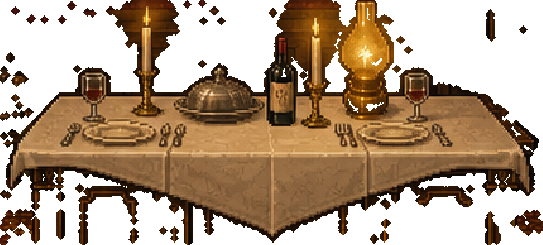
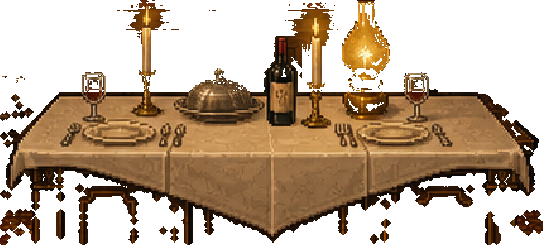
The dinner's cloth to the floor; the lit wall out of the table prop
Tyler: "Maybe you need the tablecloth to come all the way down and it can
hide his legs completely? And the other guy's shoulder is partially
missing behind the candle." tools/art/room11-dinner-drape.py: the table
prop loses the plate's lit wall around its candles and lamp, and a second
prop, dinner_drape, hangs the cloth to the floor in front of the chair.
Lesson: tests/lessons.test.ts fails when a prop paints the plate over a
figure behind it (2864 pixels on the old prop).

Claude-Session: https://claude.ai/code/session_01FXbCurjq3gWmZKUYv89gwi

diff --git a/tests/lessons.test.ts b/tests/lessons.test.ts
@@ -350,3 +350,53 @@ test('a figure with barks and no tree says them where the player stands to talk 
   }
   assert.deepEqual(misses, []);
 });
+
+/* ---- A prop in front of a figure paints only its objects over him ---------- */
+
+// Errata 194 (Tyler, of the dinner: "the other guy's shoulder is partially missing behind the candle"). A prop
+// cut from a plate keeps the plate's own pixels around its objects -- the wall lit by the candles -- and drawn
+// in front of the man behind it, that wall cut his shoulders away. Where a prop overlaps a figure drawn behind
+// it, its pixels must be its objects: no more than a handful may be the plate itself (within 75, and dark).
+test('no prop paints the plate over a figure behind it', () => {
+  const manifest = read('content/manifest.json') as { rooms: string[]; ambient: string[] };
+  const ambient = manifest.ambient.map((path) => read(path)) as { id: string; room: string; x: number; y: number;
+    sprite?: { sheet: string; frames: number[][]; figureHeight?: number }; spriteWhen?: { sprite: { sheet?: string; frames?: number[][] } }[] }[];
+  const misses: string[] = [];
+  for (const path of manifest.rooms) {
+    const room = read(path) as { id: string; background: string; props?: { id: string; sheet: string; x: number; y: number; frame: number[] }[] };
+    if (!room.props?.length || !existsSync(resolve(ROOT, room.background))) continue;
+    const plate = readPng(readFileSync(resolve(ROOT, room.background)));
+    for (const prop of room.props) {
+      const img = readPng(readFileSync(resolve(ROOT, prop.sheet)));
+      const [fx, fy, fw, fh] = prop.frame as [number, number, number, number];
+      const px0 = Math.round(prop.x - fw / 2); const py0 = prop.y - fh;
+      for (const npc of ambient.filter((one) => one.room === room.id && one.sprite && !one.sprite.figureHeight && one.y < prop.y)) {
+        // The frames he shows WHILE this prop is drawn: the sheet a `spriteWhen` gives under the prop's own
+        // condition, else his own.
+        const during = (npc.spriteWhen ?? []).find((v) => JSON.stringify((v as { when?: unknown }).when) === JSON.stringify((prop as { when?: unknown }).when));
+        for (const sprite of [during ? { ...npc.sprite!, ...during.sprite } : npc.sprite!]) {
+          const [sx, sy, w, h] = sprite.frames![0]! as unknown as [number, number, number, number];
+          const art = readPng(readFileSync(resolve(ROOT, sprite.sheet!)));
+          const box: [number, number, number, number] = [Math.round(npc.x - w / 2), npc.y - h, Math.round(npc.x + w / 2), npc.y];
+          let painted = 0;
+          for (let y = Math.max(box[1], py0); y < Math.min(box[3], py0 + fh); y += 1) {
+            for (let x = Math.max(box[0], px0); x < Math.min(box[2], px0 + fw); x += 1) {
+              const i = ((fy + y - py0) * img.width + fx + x - px0) * 4;
+              if (img.pixels[i + 3] < 128) continue;
+              // Only where he is drawn: a prop over the empty corners of his frame hides nothing of him.
+              if (art.pixels[((sy + y - box[1]) * art.width + sx + x - box[0]) * 4 + 3]! < 128) continue;
+              const j = (y * plate.width + x) * 4;
+              const diff = Math.abs(img.pixels[i] - plate.pixels[j]) + Math.abs(img.pixels[i + 1] - plate.pixels[j + 1]) + Math.abs(img.pixels[i + 2] - plate.pixels[j + 2]);
+              const lum = 0.3 * img.pixels[i] + 0.59 * img.pixels[i + 1] + 0.11 * img.pixels[i + 2];
+              if (diff < 75 && lum < 120) painted += 1;
+            }
+          }
+          // A dark object in front of him (the wine bottle) can match the dark wall it stands against; the
+          // dinner's lit wall was 2864 pixels over him, the bottle and the table's edge are 765.
+          if (painted > 1500) misses.push(`${room.id}: ${prop.id} paints ${painted} pixels of the plate over ${npc.id} (${sprite.sheet})`);
+        }
+      }
+    }
+  }
+  assert.deepEqual(misses, []);
+});

diff --git a/tests/room-11.test.ts b/tests/room-11.test.ts
@@ -69,7 +69,7 @@ test('A4: after the swindle he opens on FAN_A1, and either answer about the clai
 
 test('A10: holding the invitation, the table is laid and the dinner opens; option 6 ends it with the handkerchief', async () => {
   const state = await inState('r11-b');
-  assert.deepEqual(shownProps(state), ['dinner'], 'the table laid absurdly well');
+  assert.deepEqual(shownProps(state), ['dinner', 'dinner_drape'], 'the table laid absurdly well, its cloth to the floor');
   assert.ok(state.findTarget('handkerchief'), 'his handkerchief is on the desk');
   const accost = state.room.onEnter?.accost;
   assert.ok(accost?.whenAny?.some((when) => state.flags.test(when)), 'he opens on him as he comes in');

diff --git a/tools/art/room11-dinner-drape.py b/tools/art/room11-dinner-drape.py
@@ -1,0 +1,78 @@
+"""The dinner table, as Tyler asked for it after the second render (2026-11-08): "Thad is very awkwardly
+positioned at the table. Maybe you need the tablecloth to come all the way down and it can hide his legs
+completely? And the other guy's shoulder is partially missing behind the candle." No image operation.
+
+1. THE WALL BEHIND THE CANDLES, OUT OF THE PROP. room-11-dinner.png keeps the dinner plate's changed pixels
+   (tools/art/room11-props.py), and around the candles, the lamp and the bottle's neck that is the wall
+   lit by them: dark, wall-coloured pixels within 75 of the bare plate under them. Drawn in front of
+   Fanshawe, they cut his shoulders. Above the cloth's top they are cleared; the objects keep every pixel.
+2. THE CLOTH TO THE FLOOR, IN FRONT OF THAD. A second prop, room-11-dinner-drape.png: under the cloth's
+   own hanging edge, column by column, the cloth carried down to the floor in its own texture (the band
+   above the edge, repeated), shaded into folds and darkening toward a hem. It stands on the floor in
+   front of the chair (`y` 722), so the depth sort draws it in front of him seated and behind him
+   standing anywhere in the walk band; the table top stays behind him, so his forearms are on it.
+
+Writes both PNGs and prints the drape's frame.
+"""
+import os
+import numpy as np
+from PIL import Image
+
+ROOT = os.path.dirname(os.path.dirname(os.path.dirname(os.path.abspath(__file__))))
+PROP = os.path.join(ROOT, 'art/props/room-11-dinner.png')
+PLATE = os.path.join(ROOT, 'art/backgrounds/room-11-fanshawe-office.png')
+X0, Y0 = 824, 398                 # the prop's top-left on the plate (x 1095, y 643, 543 x 245, bottom-centred)
+FLOOR = 722                       # the desk's base meets the carpet
+TOP_ROWS = 92                     # above this row of the prop is above the cloth's top
+BOTTLE = (258, 302, 36)           # the bottle's columns, and the row its neck begins
+
+p = np.asarray(Image.open(PROP).convert('RGBA')).copy()
+plate = np.asarray(Image.open(PLATE).convert('RGB')).astype(int)
+H, W = p.shape[:2]
+under = plate[Y0:Y0 + H, X0:X0 + W]
+d = np.abs(p[..., :3].astype(int) - under).sum(2)
+lum = 0.3 * p[..., 0] + 0.59 * p[..., 1] + 0.11 * p[..., 2]
+zone = np.zeros((H, W), bool)
+zone[:TOP_ROWS] = True
+zone[BOTTLE[2]:, BOTTLE[0]:BOTTLE[1]] = False
+wall = (p[..., 3] > 0) & zone & (d < 75) & (lum < 120)
+p[wall] = 0
+Image.fromarray(p).save(PROP)
+
+# THE DRAPE.
+lum = 0.3 * p[..., 0] + 0.59 * p[..., 1] + 0.11 * p[..., 2]
+rows = FLOOR - Y0
+drape = np.zeros((rows, W, 4), np.uint8)
+# The cloth's lower edge in each column, found from below: the lowest light pixel over the dark desk. Smoothed
+# across nine columns so a plate's rim or a dark fold cannot notch it.
+from scipy.ndimage import median_filter
+low = np.full(W, -1)
+for x in range(W):
+    light = np.where((p[TOP_ROWS:, x, 3] > 0) & (lum[TOP_ROWS:, x] > 120))[0]
+    if len(light):
+        low[x] = TOP_ROWS + light.max() + 1
+xs = np.where(low >= 0)[0]
+left, right = xs.min(), xs.max()
+edge = np.interp(np.arange(W), xs, low[xs])
+edge = median_filter(edge, size=9, mode='nearest').round().astype(int)
+# Its colour is taken from under that ragged edge; the drape itself hangs from ONE straight line, the table
+# top's front edge, so it reads as one cloth folded over the edge and down (Tyler: "all the way down").
+FRONT = 147
+colour_edge = edge.copy()
+# Its colour: the hanging cloth's own, the median of the light pixels just above the edge, flat, in folds.
+hang = np.array([p[max(TOP_ROWS, e - 14):e, x, :3][lum[max(TOP_ROWS, e - 14):e, x] > 110].reshape(-1, 3)
+                 for x, e in zip(range(W), colour_edge) if left <= x <= right and e > TOP_ROWS], dtype=object)
+base = np.median(np.vstack([h for h in hang if len(h)]), axis=0)
+BLOCK = 4
+for x in range(left, right + 1):
+    bx = (x - left) // BLOCK
+    fold = 0.88 + 0.12 * np.cos(2 * np.pi * bx * BLOCK / 40.0)
+    side = 0.85 if x - left < 8 or right - x < 8 else 1.0
+    for yy in range(FRONT, rows):
+        by = (yy // BLOCK) * BLOCK
+        depth = 1.0 - 0.16 * (by - FRONT) / max(1, rows - FRONT)
+        hem = 0.7 if yy >= rows - BLOCK else (1.1 if yy < FRONT + BLOCK else 1.0)
+        drape[yy, x, :3] = np.clip(base * fold * depth * hem * side, 0, 255)
+        drape[yy, x, 3] = 255
+Image.fromarray(drape).save(os.path.join(ROOT, 'art/props/room-11-dinner-drape.png'))
+print({'x': X0 + W // 2, 'y': FLOOR, 'frame': [0, 0, W, rows], 'cleared': int(wall.sum())})

diff --git a/docs/55-full-game-build.md b/docs/55-full-game-build.md
@@ -179,7 +179,7 @@ Every row here shipped past a green suite and was found by Tyler playing, by a r
 | A moment meant to be noticed set at a background level | The fiddler's played barks at 4 dB over a gently ducked room, his F2 retune at 8 dB under the score: inside every ceiling, and easy to miss (Tyler: "it needs to really be noticeable if it's supposed to be noticeable", errata 117) | `tools/check-sound-levels.mjs`: a played bark is featured at 8 dB or more over the ducked music, and an arc sound sits no more than 4 dB under the score; **before placing a sound, decide whether it is background or a moment, and give a moment the bell's level** |
 | A note in a content file says a document writes nothing, and the document wrote it | The hotel clerk's file: "Doc 07 writes no barks for the clerk", while doc 07 §8 wrote him nine (errata 109) | `tests/town-barks.test.ts`: every single-voice doc 07 bark table is extracted (`tools/town-barks.json`) or recorded as not placed; **a "no document writes this" note is a claim -- grep the docs for the heading before writing one** |
 | Thad's stand for a thing covers the figure the moment is about | Prosperity's hole: from its centre Thad's head hid the raccoon in its mouth, so doc 54's "one look of complete contempt" was played behind him (errata 194) | Taste, not yet a script: **before acting a figure's beat, render it from the stand that triggers it and check the figure is visible**; a room can choose a stand off the thing's centre (annotation `stands`) |
-| A scene of two people reads as two people who are not together | Fanshawe's dinner: Thad seated past the table's end with his hands on nothing, and Fanshawe facing out, never at him (Tyler, 2026-11-08; errata 194) | Taste: **render a staged conversation and check where each hand rests and where each face looks**; a host turns to his guest (`spriteWhen`), and a seated guest's hands meet the table (`seat.sitAt`) |
+| A scene of two people reads as two people who are not together | Fanshawe's dinner: Thad seated past the table's end with his hands on nothing, and Fanshawe facing out, never at him (Tyler, 2026-11-08; errata 194) | Taste: **render a staged conversation and check where each hand rests and where each face looks**; a host turns to his guest (`spriteWhen`), a seated guest's hands meet the table (`seat.sitAt`), and what is under a table is under its cloth (a drape prop in front of the chair). A prop cut from a plate carries the plate around its objects: `tests/lessons.test.ts` holds that it paints none of it over a figure |
 | A figure lit by the plate's daylight default in a dark or moonlit room | Thad warm and bright at the moonlit funeral, beside a cool undertaker; Thad full-lit in the vault and the chamber (art audit, errata 109) | Taste: a room whose plate is dark or cool sets `figureLight` in its annotation so the figures take the room's light; the art audit's "sink" on the undertaker was tapered shoe rows, not a fault -- **read the pixels before moving a figure the audit flags** |
 | A room's lines, or its image brief, written before its plate and never read against it | Doc 97 described a horse in the livery doorway, a moon in the trough, a patched tent and a barber's chair, none of which Lower Street's or the Lane's plate shows; and the streets' brief asked for a hand bell on a post when the church's own line called its bell "the only bell in the district" (errata 161, part 3) | Taste: when the plate lands, every LOOK in the room is read against it and rewritten where the plate disagrees, before the room is cut in; and before a brief adds a prop, grep the docs for what is already said about one (Tyler ruled the bell: the church's line was changed, not the art) |
 | A picture of a figure in its room drawn without what stands in front of it | Ozymandia drawn in front of her crystal ball in the cast-softer before-and-after (Tyler, 2026-11-07: "Ozymandia is in front of the crystal ball as you showed her"); in the game the ball is plane 1 and in front (errata 135) | `tools/art/figure-audit-sheets.mjs` punches each figure out by its `clipPlane`'s mask, as `Renderer.drawOccluded` does; check a hand-made comparison against a screenshot of the running game (`tools/gauntlet/snap.mjs`) before it is shown |

diff --git a/docs/00-errata.md b/docs/00-errata.md
@@ -5341,6 +5341,9 @@ Lesson: a person's TALK TO is only staged like a tree's if a test walks it (the 
   - **At the table (Tyler, of the first render: "sitting very awkwardly at the table with his hands out on nothing. And is the guy he's with not looking at him at all?"):**
     - the seat's `sitAt` sets him down in from the table's end, so his forearms rest on the cloth;
     - Fanshawe is turned to him while the table is laid (Tyler: "One more op", room-11 cap 7). Room-11 attempt 7 drew his four poses three-quarters to his left, cut by `tools/art/fanshawe-turned.py`. A figure may now carry `spriteWhen`, another sheet while a condition holds; here it is the dinner prop's own condition.
+  - **And then (Tyler, of the next render: "Thad is very awkwardly positioned at the table. Maybe you need the tablecloth to come all the way down and it can hide his legs completely? And the other guy's shoulder is partially missing behind the candle."):**
+    - the cloth now hangs to the floor: a second prop, `dinner_drape` (`tools/art/room11-dinner-drape.py`), standing on the carpet in front of the chair, so his legs are under it while the table top stays behind his forearms;
+    - the table prop no longer carries the plate's lit wall around the candles and the lamp, which was drawn over Fanshawe's shoulders. **The lesson:** `tests/lessons.test.ts` fails when a prop paints the plate over a figure behind it. It fails on the old prop (2864 pixels).
   - **The porch:** beat 4's two lines at the door ("A very fine dinner." / "I believe I own something.") play over the deed's two frames, through a rule's new `holds`. The pose is let go when the lines are down or the room changes.
   - The seal and the wine are a shade toward brick red, because `check-key-fringe` reads saturated red as the key.
 - **2 · Grievance and the tune (doc 54 B3, doc 95 row 79).** The staging before "Twelve years." was dropped at extraction. It is now the case's first beat, acted:
